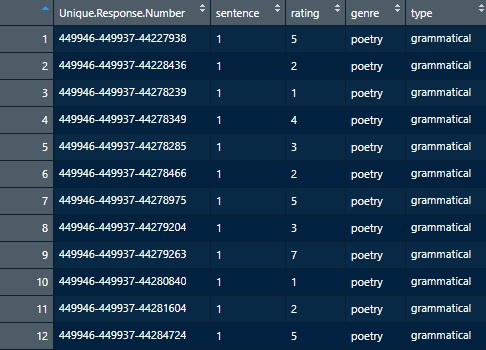
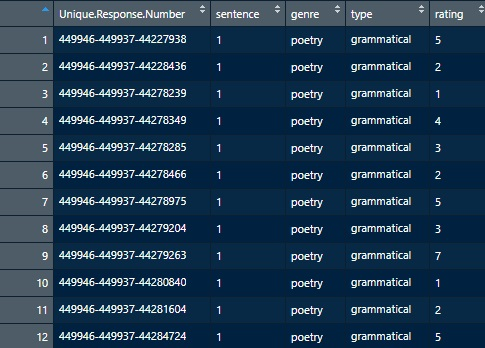
Added interaction plot, code chunk for analysis and fixed headings.
Still need to explain the justification for analysis then show and explain results.

Repeat the whole process for eye tracking and comprehension data.

diff --git a/docs/eyetrack.html b/docs/eyetrack.html
@@ -365,8 +365,8 @@ div.tocify {
 <p>The aim of this part of the study was to identify if genre or grammaticality, or both, had a significant effect on the acceptability ratings of the sentences. As per the University of Glasgow’s policy on data collection and storage, I am not authorised to provide the data set I collected but will show an example of the form it took in order to help illustrate the data manipulation process.</p>
 <p>When the data was downloaded from the Jisc survey platform, there were four lists which looked like this:</p>
 <div class="figure">
-<img src="original_survey_data.jpg" alt="Each participant had their own row with every sentence number given its own column. The number in the column is the acceptability rating provided by the participant for that particular sentence." />
-<p class="caption">Each participant had their own row with every sentence number given its own column. The number in the column is the acceptability rating provided by the participant for that particular sentence.</p>
+<img src="original_survey_data.jpg" alt="Each participant had their own row with every sentence number given its own column. The number in each cell is the acceptability rating provided by the participant for that particular sentence number." />
+<p class="caption">Each participant had their own row with every sentence number given its own column. The number in each cell is the acceptability rating provided by the participant for that particular sentence number.</p>
 </div>
 <p>This is not ideal for analysis so some data manipulation was required in order for the data to be ‘tidy’. Initially, I put the data in long form so that every observation had its own row. I did this individually for each of the 4 lists and I will show this process for list 1. List 1 consisted of all poetry sentences, with sentences 1-20 grammatically correct and sentences 21-40 grammatically incorrect.</p>
 <pre class="r"><code>library(tidyverse) #Load in required package. This includes the &#39;dplyr&#39; package that I will use a lot to manipulate the data.
@@ -377,13 +377,33 @@ list1 &lt;- read.csv(&quot;list1.csv&quot;) %&gt;% #Load in data
 list1$sentence &lt;- as.numeric(list1$sentence) #Tell R to treat sentence number as a numeric value 
 list1 &lt;- list1 %&gt;% 
   mutate(genre = &quot;poetry&quot;, #Add a genre variable and assign all List 1 observations &quot;poetry&quot;
-         type = ifelse(sentence &lt;=20, &quot;grammatical&quot;, &quot;ungrammatical&quot;)) #Add a type variable and sentences numbers 1-20 are assigned &quot;grammatical&quot;, sentences 21-40 are assigned &quot;ungrammatical&quot;.</code></pre>
+         type = ifelse(sentence &lt;=20, &quot;grammatical&quot;, &quot;ungrammatical&quot;)) %&gt;%  #Add a type variable and sentences numbers 1-20 are assigned &quot;grammatical&quot;, sentences 21-40 are assigned &quot;ungrammatical&quot;.
+  select(Unique.Response.Number, sentence, genre, type, rating) #Reorder the columns so that rating is last.</code></pre>
 <div class="figure">
-<img src="long_survey_data.jpg" alt="After data manipulation, every column is a variable and every row is an observation." />
-<p class="caption">After data manipulation, every column is a variable and every row is an observation.</p>
+<img src="long_survey_data.jpg" alt="After data manipulation, every row is an observation and every column is a variable. Working along the column you can see the participant ID, the sentence number, what genre the sentence was, whether it was grammatically correct or incorrect and the acceptability rating given by the participant." />
+<p class="caption">After data manipulation, every row is an observation and every column is a variable. Working along the column you can see the participant ID, the sentence number, what genre the sentence was, whether it was grammatically correct or incorrect and the acceptability rating given by the participant.</p>
 </div>
-<p>Method We employed an online survey to measure instinctive feelings of the sentences from native English speakers. We also did an in-person eye tracking study in which we used 6 measures: FFD, FPF, RPD, TRT, PI and PO. There were also post-trial comprehension questions to test if the participants understood the sentences.</p>
-<p>Analysis We used linear mixed effects models for each analysis. The acceptability ratings we used _<strong>, for the continuous eye tracking data we used </strong>, for the answer accuracy we used binary logistic regression. These are our results.</p>
+<p>All 4 lists were altered in this way. In order to be used in analysis, all lists were joined and the two predictor variables (‘genre’ and grammaticality aka ‘type’) were mean-centre predictor coded. This means that, for two variables, one is assigned the value 0.5 and the other -0.5 but if there were more participants in one of the groups then these values will be slightly off 0.5.</p>
+<pre class="r"><code>all_data &lt;- bind_rows(list1, list2, list3, list4) #Stacks all four lists on top of each other.
+
+all_data$genre_code &lt;- scale(ifelse(all_data$genre == &quot;poetry&quot;, 0, 1), scale = FALSE) #Mean centre predictor coding the genre variable. 
+all_data$type_code &lt;- scale(ifelse(all_data$type == &quot;grammatical&quot;, 0, 1), scale = FALSE) #Same process for the type variable.
+all_data$rating &lt;- factor(all_data$rating) #The response variable needs to be a factor.
+colnames(all_data)[colnames(all_data)==&quot;Unique.Response.Number&quot;] &lt;- &quot;id&quot; #Rename the participant column &#39;id&#39; for simplicity.</code></pre>
+<p>After this, the data is ready for statistical analysis. The final data looks like this:</p>
+<p><img src="final_survey_data.jpg" /></p>
+</div>
+<div id="analysis" class="section level2">
+<h2>Analysis</h2>
+<p>Prior to conducting inferential analyses, an interaction plot was consulted. This plot shows the average acceptability rating of sentences for each combination of variables.</p>
+<p><img src="acceptability_rating_plot.jpeg" /></p>
+<p>Judging from the plot, there is no interaction between genre type and grammaticality type. There is a clear difference in the acceptability ratings of grammatical and ungrammatical sentences with the latter condition resulting in much lower acceptability ratings, regardless of text genre. Prose sentences were rated very slightly lower than poetry sentences in both grammatical and ungrammatical conditions.</p>
+<p>In order to test this inferentially,</p>
+<p>The aim of data analysis was to identify if either of the two predictor variables genre (poetry or prose) or grammaticality type (grammatical or ungrammatical) had a significant effect on the response variable (sentence acceptability rating).</p>
+<pre class="r"><code>reg_default &lt;- clmm(rating ~ genre_code * type_code +  
+              (1 + type_code | id) +  
+              (1 + type_code*genre_code| sentence),
+            data = all_data)</code></pre>
 </div>
 </div>
 
